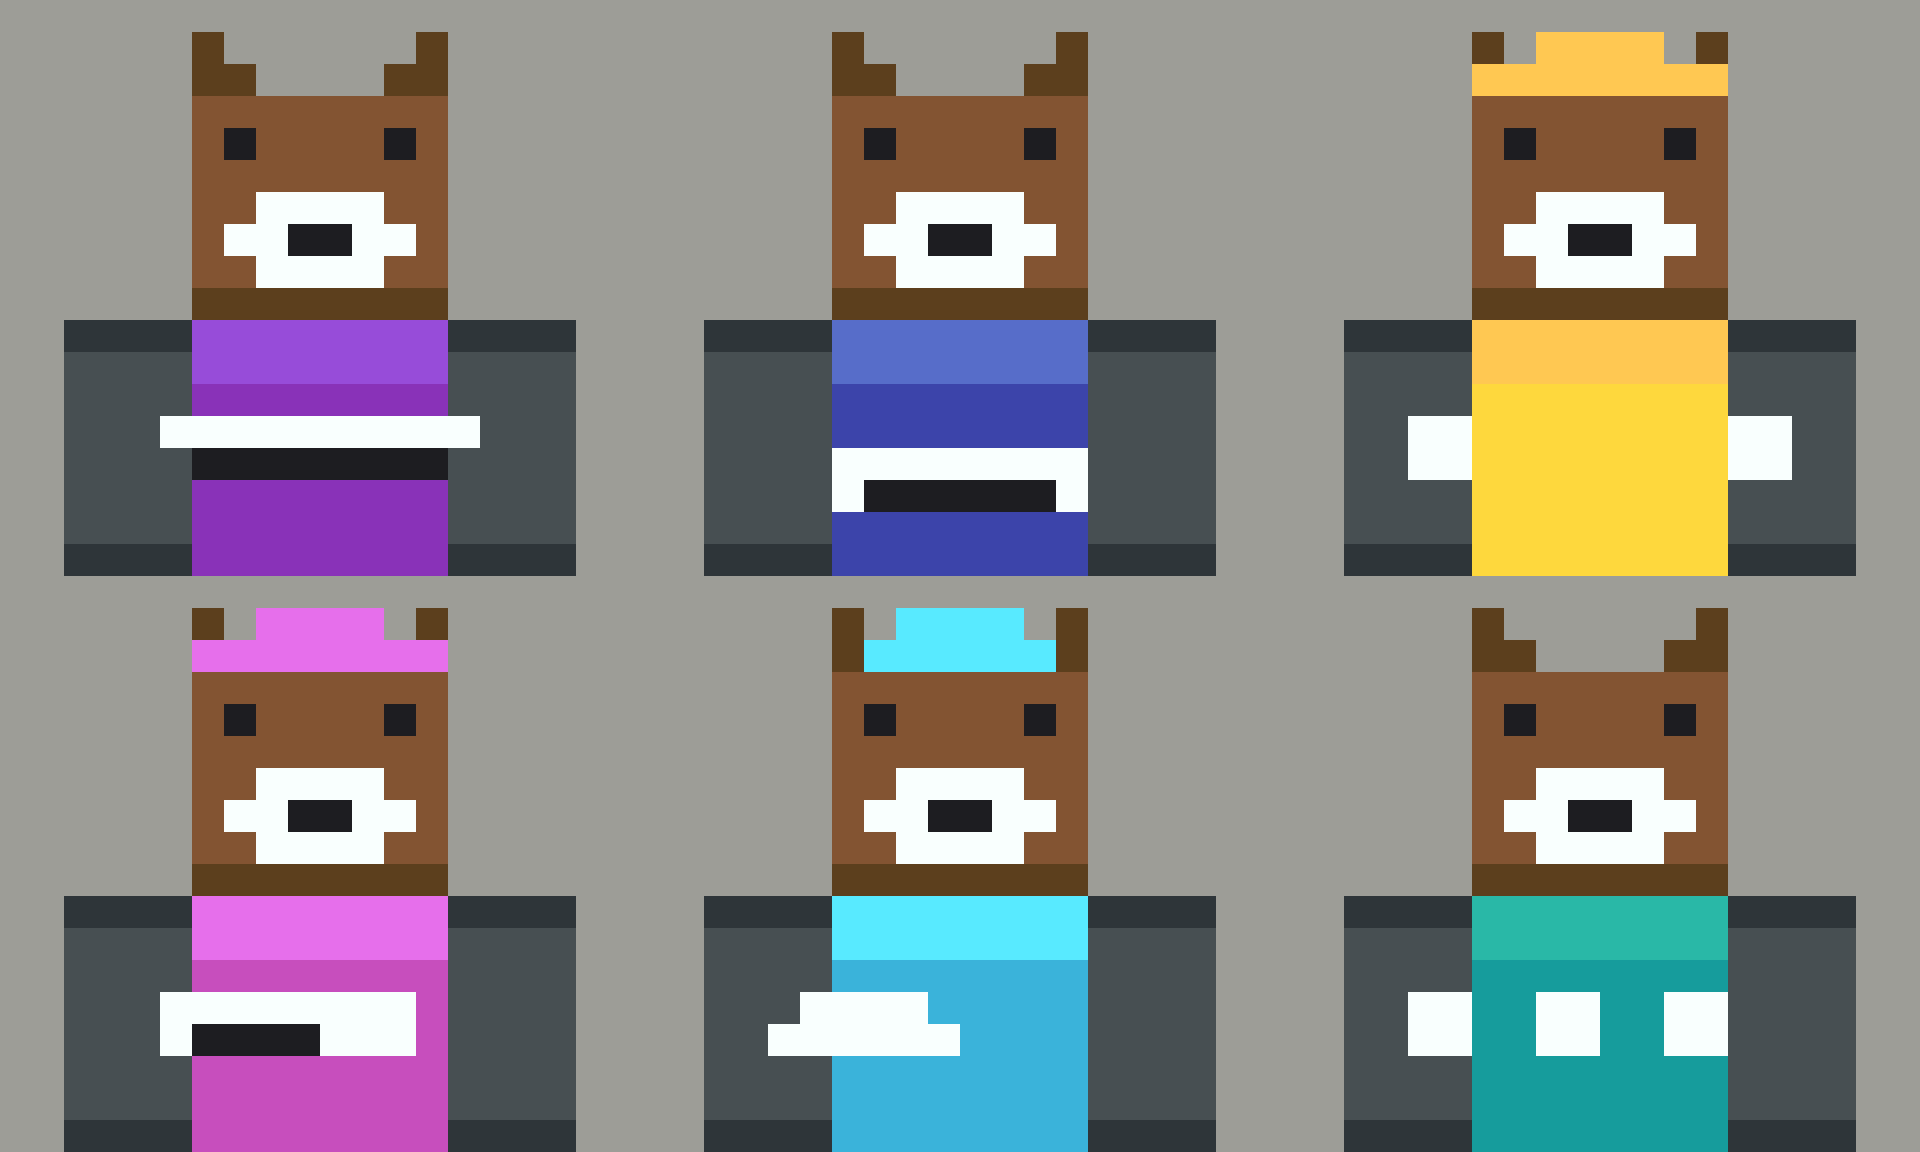
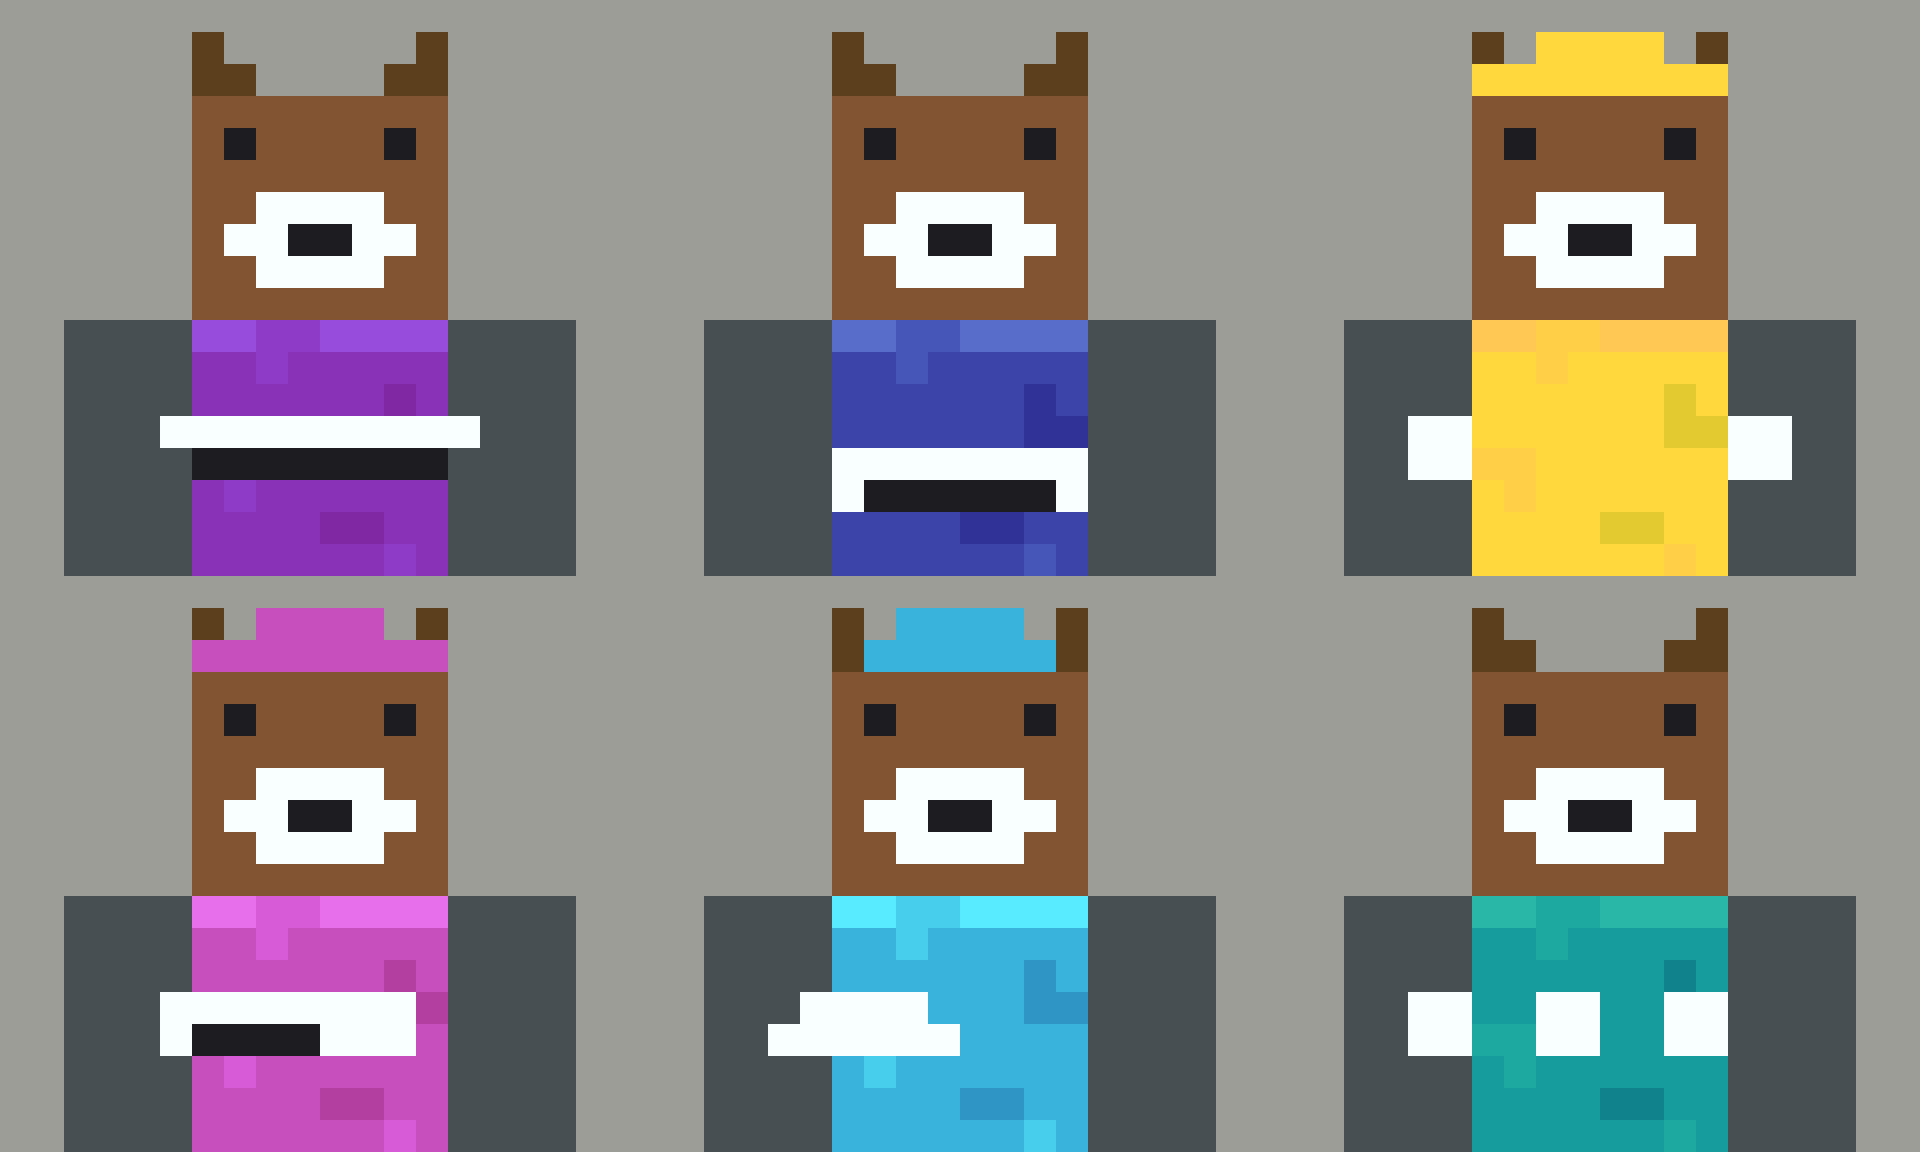
step 4 of the entity procedure, which this renderer was skipping
The user said the output did not look right. It did not. The ramps were
genuinely hue-shifted -- that part of the previous commit was true -- but the
torso measured AAAAAAAA / BBBBBBBB / CCCCCCCC on the shipped sheet. That is
the guide's banding artifact verbatim: pixels lined up brightest to darkest
in straight lines, which reveals the pixel grid and misrepresents the shape.

Two misreadings of the guide:

1. The top-and-front rule governs the faces of the 3D box RELATIVE TO EACH
   OTHER, not rows within one flat face. Applying it inside a single face is
   the definition of pancake shading, which the guide lists as an artifact.

2. The entity procedure has four steps and this renderer stopped at two.
   Step 4 is 'define the material by editing the relative position of
   clusters of certain shades, get rid of banding'. Steps 1-3 already render
   without error, which is exactly why step 4 is easy to skip.

Material clusters are now small irregular groups that never form a run, from
a fixed map so every crew member gets the same material in a different hue.

Two failures found by looking, not by reading:

- Material at the display ramp's strength reads as blotches, which is the
  noise artifact. Material needs its own ramp at roughly a third the
  contrast: 20 units of perceptual distance rather than 44.
- Clusters on an 8x8 face read as dirt. Material belongs on large uniform
  surfaces and a face is not one.
[…]

diff --git a/scripts/render.py b/scripts/render.py
@@ -163,16 +163,19 @@ SPECIES_HEADS: dict[str, list[str]] = {
 # On a front-facing bust that becomes a highlight row at the top of each mass
 # and a shadow row at its lower edge. This is NOT pillow shading — the shades
 # follow the form's top and bottom, not concentric rings from the centre.
+# 🔴 NO FULL-WIDTH SHADE ROWS. A row of one shade across the whole face is a
+# "fat line" — the guide's banding artifact. Shading arrives as material
+# clusters (see apply_material), not as stripes.
 HEAD_DEFAULT = [
-    "HHHHHHHH",   # hair, top plane catches the light
     "hhhhhhhh",
-    "SSSSSSSS",   # brow line sits in shadow under the hair
+    "hhhhhhhh",
+    "ssssssss",
     "seessees",
     "ssssssss",
     "ssssssss",
     "sssmmsss",
-    "ssssssss",   # 🔴 a full-width shadow row here reads as a BEARD on every
-]           # face, not as a jaw. Form shading must not invent features.
+    "ssssssss",
+]
 
 # Headwear replaces the top rows of the head. It is the separator that
 # survives to 32px: at that size a held prop is a smudge and the outline of
@@ -190,15 +193,15 @@ HEADWEAR = {
 }
 
 BODY_DEFAULT = [
-    "......SSSSSSSS......",   # neck, shadowed by the head above it
-    "..AAAAccccccccAAAA..",   # collar lit; arm tops catch light
-    "..aaaattttttttaaaa..",   # upper chest: lighter
+    "......ssssssss......",   # neck
+    "..aaaaccccccccaaaa..",   # collar accent
     "..aaaaTTTTTTTTaaaa..",
     "..aaaaTTTTTTTTaaaa..",
     "..aaaaTTTTTTTTaaaa..",
     "..aaaaTTTTTTTTaaaa..",
     "..aaaaTTTTTTTTaaaa..",
-    "..AAAATTTTTTTTAAAA..",   # lower arm falls into shadow
+    "..aaaaTTTTTTTTaaaa..",
+    "..aaaaTTTTTTTTaaaa..",
 ]
 
 # Props are drawn over the body layer, held at chest height or raised —
@@ -439,7 +442,7 @@ def ramp(palette_name: str) -> list[tuple[int, int, int]]:
     r, g, b = (c / 255 for c in hex_to_rgb(PALETTE[palette_name][0]))
     h, s, v = colorsys.rgb_to_hsv(r, g, b)
     out = []
-    for dv, dh, ds in RAMP_SPEC:
+    for dv, dh, ds in RAMP_SPEC + MATERIAL_SPEC[0::2]:
         rr, gg, bb = colorsys.hsv_to_rgb(
             (h + dh) % 1.0,
             max(0.0, min(1.0, s + ds)),
@@ -450,6 +453,19 @@ def ramp(palette_name: str) -> list[tuple[int, int, int]]:
 
 
 SHADOW, MID, HIGHLIGHT = 0, 1, 2
+
+# 🔴 A SECOND, SUBTLER RAMP FOR MATERIAL.
+#   The display ramp (±30% / +18%) describes FORM — which plane faces the
+#   light. Using those same values for material clusters produces blotches,
+#   which is the guide's "noise" artifact: it "adds no information to the
+#   texture". Material variation has to be quiet enough to read as fabric
+#   rather than as dirt.
+MATERIAL_SPEC = (
+    (-0.11, +0.010, +0.03),   # material shadow
+    (0.0,    0.0,    0.0),
+    (+0.08, -0.010, -0.03),   # material highlight
+)
+MAT_SHADOW, MAT_HIGHLIGHT = 3, 4
 
 
 # ---------------------------------------------------------------- plumbing --
@@ -475,6 +491,96 @@ def write_png(path: pathlib.Path, pixels: list[list[tuple[int, int, int]]]) -> N
            + chunk(b"IEND", b""))
     path.write_bytes(png)
 
+
+
+# --------------------------------------------------------- material clusters --
+# 🔴 STEP 4 OF THE GUIDE'S ENTITY PROCEDURE — the one this renderer skipped.
+#
+#   "Sketch the colour distribution, add a shadow and a highlight. Add more
+#    shades to the palette. DEFINE THE MATERIAL by editing the relative
+#    position of CLUSTERS of certain shades. Get rid of banding."
+#
+# Stopping after "add a shadow and a highlight" is what produced flat blocks
+# with horizontal stripes. Measured on the shipped sheet: the torso was
+# literally AAAAAAAA / BBBBBBBB / CCCCCCCC — the guide's "fat lines", which it
+# says "reveals the pixel grid, distracts the eye and the shape is
+# misrepresented".
+#
+# ⭐ Clusters, NOT noise. The guide rejects both: noise is per-texel speckle
+# that "adds no information"; banding is texels lined up brightest-to-darkest.
+# The answer is small irregular GROUPS of 2-3 adjacent texels that never form
+# a row, column or diagonal run.
+#
+# Masks are FIXED, not random — every crew member gets the same material
+# pattern in a different hue, so the set stays identical by construction.
+
+#   H = highlight cluster    S = shadow cluster    . = midtone
+TORSO_MATERIAL = [
+    "..HH....",
+    "..H.....",
+    "......S.",
+    "......SS",
+    "HH......",
+    ".H......",
+    "....SS..",
+    "......H.",
+]
+
+HEAD_MATERIAL = [
+    "..H.....",
+    "........",
+    "......S.",
+    "........",
+    "........",
+    ".S......",
+    "........",
+    "....H...",
+]
+
+
+def apply_material(grid, top, left, mask, base_key, shade_keys):
+    """Overlay material clusters onto an already-filled region.
+
+    Only rewrites texels that currently hold the region's midtone, so clusters
+    never overwrite eyes, props or clothing accents.
+    """
+    hi_key, lo_key = shade_keys
+    for r, row in enumerate(mask):
+        for c, ch in enumerate(row):
+            if ch == ".":
+                continue
+            y, x = top + r, left + c
+            if not (0 <= y < len(grid) and 0 <= x < len(grid[0])):
+                continue
+            cur = grid[y][x]
+            if cur is None or cur[0] != base_key:
+                continue
+            grid[y][x] = (base_key, hi_key if ch == "H" else lo_key)
+
+
+def banding_score(grid, hue: str) -> int:
+    """Longest full-width uniform run of the torso MATERIAL. 0 is correct.
+
+    🔴 The guide's definition: banding is "pixels that line up in a sequence
+    from brightest to darkest ... in straight lines (a.k.a. fat lines)". It
+    "reveals the pixel grid, distracts the eye and the shape is
+    misrepresented".
+
+    Scoped to the hue material only. The neck, the prop and the collar accent
+    are full-width by design — they are SHAPES, not shading, and counting them
+    makes the check fire on correct output.
+
+    Verified against a forced-band control: this must return 8 for a striped
+    torso and 0 for every shipped avatar.
+    """
+    worst = 0
+    for y in range(BODY_TOP + 2, GRID_H):
+        row = grid[y][HEAD_LEFT:HEAD_LEFT + TORSO_W]
+        if any(c is None or c[0] != hue for c in row):
+            continue
+        if len(set(row)) == 1:
+            worst = max(worst, len(row))
+    return worst
 
 
 def check_species_contrast(shared: dict) -> list[str]:
@@ -551,7 +657,7 @@ def build_grid(role: str, cfg: dict, shared: dict) -> list[list[str | None]]:
         "d": (shared.get("mask", "black"), MID),
         "i": (shared.get("muzzle", "white"), SHADOW),
         "a": (shared["sleeve"], MID),    "A": (shared["sleeve"], SHADOW),
-        "t": (hue, HIGHLIGHT),           "T": (hue, MID),
+        "t": (hue, MID),                 "T": (hue, MID),
         "c": (hue, HIGHLIGHT),
         # The prop must not use the torso hue — a yellow wrench on a yellow
         # torso is invisible, which defeats the one-prop rule entirely.
@@ -602,7 +708,20 @@ def build_grid(role: str, cfg: dict, shared: dict) -> list[list[str | None]]:
                 if ch != ".":
                     grid[row_idx][c] = ch
 
-    return [[colours.get(ch) if ch else None for ch in row] for row in grid]
+    # Step 4 of the guide's entity procedure: define the material by the
+    # relative position of shade CLUSTERS, and remove banding.
+    resolved = [[colours.get(ch) if ch else None for ch in row] for row in grid]
+
+    torso_key = colours["T"][0]
+    apply_material(resolved, BODY_TOP + 1, HEAD_LEFT, TORSO_MATERIAL,
+                   torso_key, (MAT_HIGHLIGHT, MAT_SHADOW))
+
+    # 🔴 NO CLUSTERS ON THE FACE. A head face is 8x8 with eyes and a mouth in
+    # it; scattered shade texels there read as dirt or stubble, not material.
+    # Measured: the first attempt gave every crew member a blemished face.
+    # ⭐ Material belongs on large uniform surfaces. A face is not one.
+
+    return resolved
 
 
 def render(role: str, cfg: dict, shared: dict, scale: int) -> list[list[tuple[int, int, int]]]:

diff --git a/SKILL.md b/SKILL.md
@@ -525,14 +525,51 @@ supplies the *midtone*; the ramp is derived from it by rule — a fixed HSV
 offset applied to every material, which is also what keeps a crew lit
 identically.
 
-### 🔴 2. Entities are lit top-and-front
+### 🔴 2. Entities are lit top-and-front — BETWEEN FACES, not within one
 
-The style guide's entity rule: *"the top and front of the entity need to be
-brighter than the bottom and back."* On a front-facing bust that becomes a
-highlight row at the top of each solid mass and a shadow at its lower edge.
+The guide: *"the top and front of the entity need to be brighter than the
+bottom and back. This applies to shading the faces individually, as well as
+how the faces are shaded relative to each other."*
 
-⚠ **This is the one shading rule that is not optional.** A flat, evenly
-filled figure reads as a UI icon; a top-lit one reads as a rendered entity.
+⚠ **This governs the faces of the 3D box relative to each other** — the top
+face brighter than the bottom face. Applying it as a bright row at the top of
+one flat face and a dark row at the bottom is **pancake shading**, which the
+guide lists as an artifact: *"placing the highlights on one side and shadows
+on the opposite side of a surface. It disregards the shape."*
+
+The first version of this renderer did exactly that, and the torso came out as
+`AAAAAAAA / BBBBBBBB / CCCCCCCC` — measured on the shipped sheet.
+
+### 🔴 2b. The procedure has FOUR steps and stopping at two is what looks wrong
+
+The guide's entity procedure:
+
+1. Generate a texture template
+2. **Sketch the colour distribution, add a shadow and a highlight**
+3. Add more shades to the palette
+4. **Define the material by editing the relative position of CLUSTERS of
+   certain shades. Get rid of banding and any other shading artifacts.**
+
+⭐ **Stopping after step 2 gives flat blocks with stripes.** Step 4 is where a
+texture stops looking like a coloured rectangle and starts looking like cloth.
+It is also the step that is easy to skip, because steps 1–3 already produce
+something that renders without error.
+
+**What step 4 means concretely:** small irregular groups of 2–3 adjacent
+texels in a slightly different shade, never forming a row, column or diagonal
+run. Fixed patterns, not random ones — every crew member gets the same
+material map in a different hue, so the set stays identical by construction.
+
+🔴 **Material needs its own ramp, much subtler than the form ramp.** The
+display ramp here is ±30%/+18% brightness; material clusters at those values
+read as blotches, which is the guide's *noise* artifact — *"adds no
+information to the texture"*. The material ramp is ±11%/+8%, about 20 units of
+perceptual distance from the midtone.
+
+🔴 **No clusters on the face.** A head face is 8×8 with eyes and a mouth in
+it. Scattered shade texels there read as dirt or stubble — measured: the first
+attempt gave every crew member a blemished face. ⭐ **Material belongs on
+large uniform surfaces, and a face is not one.**
 
 ### 🔴 3. No black outlines on an entity
 
